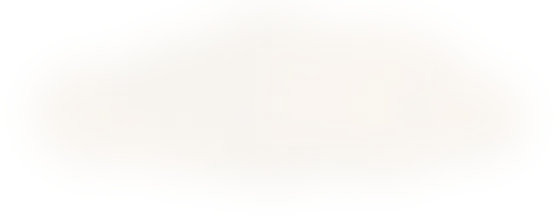
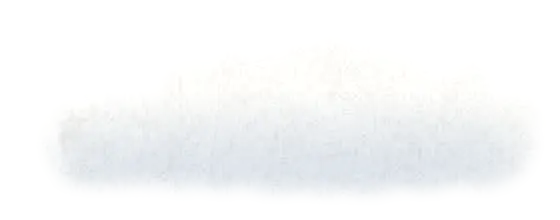
Home sky v2: clearly a painted daytime sky
- Soft blue gradient (deeper at top) lightening into the Zagros haze; the last rows are still
  the painting's own top band mirrored, so the seam stays pixel-identical.
- White painted clouds (lit tops, cool-grey shaded bases, Zagros brush grain) baked into the
  backdrop plus lighter drifting sprites; warm sun glow upper-left.
- Drift is now noticeable but gentle (+-9vw over ~50-75s); still off with reduced motion.
- Soft white halo behind the logo + line for legibility on blue.

Changed region(s): [[0.1214, 0.6273, 0.8804, 0.8455], [0.4857, 0.6, 0.5161, 0.6273]]

diff --git a/site/assets/css/home.css b/site/assets/css/home.css
@@ -243,7 +243,7 @@ body.home .zh-exit {
   height: var(--zh-h);
   overflow: hidden;
   container-type: inline-size;
-  background: #ece4da;
+  background: #9cc0dc;
   isolation: isolate;
 }
 @supports (height: 100lvh) { .home-sky { --zh-h: 100lvh; } }
@@ -283,17 +283,17 @@ body.home .zh-exit {
 }
 .home-sky-cloud {
   position: absolute; display: block; max-width: none; height: auto;
-  opacity: .85;
-  animation: home-sky-drift 90s ease-in-out infinite alternate;
+  opacity: .95;
+  animation: home-sky-drift 60s ease-in-out infinite alternate;
   will-change: transform;
 }
-.home-sky-cloud--1 { width: clamp(300px, 38vw, 720px); top: 6%;  right: -6%; animation-duration: 110s; }
-.home-sky-cloud--2 { width: clamp(220px, 26vw, 520px); top: 30%; left: -4%;  animation-duration: 85s; animation-delay: -30s; opacity: .7; }
-.home-sky-cloud--3 { width: clamp(240px, 28vw, 560px); top: 52%; right: 18%; animation-duration: 130s; animation-delay: -60s; opacity: .55; }
-.home-sky-cloud--4 { width: clamp(160px, 18vw, 360px); top: 2%;  left: 22%; animation-duration: 100s; animation-delay: -15s; opacity: .6; }
+.home-sky-cloud--1 { width: clamp(300px, 34vw, 640px); top: 4%;  right: 2%;  animation-duration: 64s; }
+.home-sky-cloud--2 { width: clamp(220px, 24vw, 480px); top: 24%; left: 4%;  animation-duration: 52s; animation-delay: -20s; animation-direction: alternate-reverse; }
+.home-sky-cloud--3 { width: clamp(220px, 22vw, 440px); top: 46%; right: 30%; animation-duration: 76s; animation-delay: -40s; opacity: .85; }
+.home-sky-cloud--4 { width: clamp(160px, 16vw, 320px); top: 0;   left: 34%; animation-duration: 58s; animation-delay: -10s; animation-direction: alternate-reverse; opacity: .9; }
 @keyframes home-sky-drift {
-  from { transform: translate3d(-4vw, 0, 0); }
-  to   { transform: translate3d(4vw, 0, 0); }
+  from { transform: translate3d(-9vw, 0, 0); }
+  to   { transform: translate3d(9vw, 0, 0); }
 }
 
 .home-sky-copy {
@@ -303,12 +303,18 @@ body.home .zh-exit {
   transform: translate3d(0, calc(-50% + var(--sky-p) * 22vh), 0);
   opacity: calc(1 - var(--sky-p) * 1.2);
 }
+.home-sky-copy::before {
+  content: ""; position: absolute; z-index: -1; left: 50%; top: 50%;
+  width: min(680px, 110vw); height: 300px; transform: translate(-50%, -50%);
+  background: radial-gradient(closest-side, rgba(255,255,255,.72), rgba(255,255,255,.38) 55%, rgba(255,255,255,0));
+  pointer-events: none;
+}
 .home-sky-logo { width: clamp(150px, 20vw, 250px); height: auto; display: block; }
 .home-sky-line {
   margin: 0; font-family: "Kalameh", Tahoma, sans-serif;
   font-weight: 700; font-size: clamp(1.1rem, 2.2vw, 1.55rem); line-height: 1.7;
   color: #066163; text-align: center;
-  text-shadow: 0 1px 14px rgba(250,247,241,.9);
+  text-shadow: 0 0 18px rgba(255,255,255,.95), 0 0 4px rgba(255,255,255,.8);
 }
 
 .home-sky-hint {

diff --git a/tools/redesign/make_sky.py b/tools/redesign/make_sky.py
@@ -31,78 +31,119 @@ def vmask(h, a, b, invert=False):
     return m
 
 
-def sky():
-    src = Image.open(SRC).convert('RGB')
-    band = src.crop((0, 0, W, 260))                    # clouds above the mountain peak (~row 320)
-
-    def grown(img, k, x_shift=0):
-        """Enlarge a cloud band (nearer clouds higher up), keep the brush grain crisp."""
-        w2 = int(W * k)
-        big = img.resize((w2, int(img.height * k)), Image.LANCZOS)
-        big = big.filter(ImageFilter.UnsharpMask(radius=2, percent=60, threshold=1))
-        x0 = (w2 - W) // 2 + x_shift
-        return big.crop((x0, 0, x0 + W, big.height))
-
-    # bottom -> top; each band cross-fades into the one below it
-    layers = [
-        (ImageOps.flip(band), H - 260),                               # A: row 1079 == painting row 0
-        (grown(ImageOps.mirror(band), 1.15, 90), H - 260 - 230),     # B
-        (grown(ImageOps.flip(ImageOps.mirror(band)), 1.3, -160), 330),  # C
-        (grown(band, 1.6, 120), 0),                                   # D
-    ]
-    out = Image.new('RGB', (W, H))
-    # paint top-down so lower bands overlap (and win over) the ones above
-    for img, y in reversed(layers):
-        lay = out.copy()
-        lay.paste(img, (0, y))
-        out = Image.composite(lay, out, vmask(H, y, y + 70).resize((W, H))) if y else lay
-
-    # daylight lift toward the top (keeps the bottom 300 rows untouched)
-    light = Image.new('RGB', (W, H), (244, 246, 242))
-    top = vmask(H, 0, H - 300, invert=True).point(lambda v: int(v * 0.30)).resize((W, H))
-    out = Image.composite(light, out, top)
-    # soft warm sun-glow behind the logo area
-    glow = Image.new('L', (W, H), 0)
-    g = Image.new('L', (900, 520), 0)
-    gp = g.load()
-    for y in range(520):
-        for x in range(900):
-            d = ((x - 450) / 450.0) ** 2 + ((y - 260) / 260.0) ** 2
-            gp[x, y] = int(max(0.0, 1 - d) ** 2 * 120)
-    glow.paste(g, (W // 2 - 450, 150))
-    out = Image.composite(Image.new('RGB', (W, H), (252, 249, 242)), out, glow)
+def grain(size, seed=0, k=1.0):
+    """Brush grain of the Zagros painting: high-pass of its cloud band, tiled to size (L, 128 = flat)."""
+    src = Image.open(SRC).convert('L').crop((0, 0, W, 300))
+    hp = ImageChops.subtract(src, src.filter(ImageFilter.GaussianBlur(10)), 1, 128)
+    rnd = random.Random(seed)
+    out = Image.new('L', size, 128)
+    for y in range(0, size[1], 260):
+        x0 = rnd.randint(0, 600)
+        tile = hp.crop((x0, 20, x0 + min(W - x0, size[0]), 280))
+        if rnd.random() < .5: tile = ImageOps.mirror(tile)
+        out.paste(tile.resize((size[0], 260)), (0, y))
+    if k != 1.0:
+        out = out.point(lambda v: max(0, min(255, int(128 + (v - 128) * k))))
     return out
 
 
+def add_grain(img, g, amount):
+    """img + amount * (grain - 128), per channel."""
+    off = g.point(lambda v: max(0, min(255, int(128 + (v - 128) * amount))))
+    return Image.merge('RGB', [ImageChops.add(c, off, 1.0, -128) for c in img.split()])
+
+
+def vgrad(stops, h, w=W):
+    """Vertical colour gradient from [(row, (r,g,b)), ...]."""
+    col = Image.new('RGB', (1, h))
+    px = col.load()
+    for y in range(h):
+        for i in range(len(stops) - 1):
+            (y0, c0), (y1, c1) = stops[i], stops[i + 1]
+            if y0 <= y <= y1:
+                t = (y - y0) / float(max(1, y1 - y0)); t = t * t * (3 - 2 * t)
+                px[0, y] = tuple(int(round(c0[j] + (c1[j] - c0[j]) * t)) for j in range(3))
+                break
+    return col.resize((w, h))
+
+
+def sky():
+    src = Image.open(SRC).convert('RGB')
+    band = src.crop((0, 0, W, 260))                    # clouds above the mountain peak (~row 320)
+    # haze band: the painting's own top clouds mirrored, so row 1079 == painting row 0 (seamless)
+    haze = Image.new('RGB', (W, H))
+    haze.paste(ImageOps.mirror(band).resize((W, 420)), (0, H - 590))
+    lay = haze.copy(); lay.paste(ImageOps.flip(band), (0, H - 260))
+    haze = Image.composite(lay, haze, vmask(H, H - 260, H - 180).resize((W, H)))
+
+    # daytime blue: deeper soft blue at the top, lightening into the painting's warm haze
+    blue = vgrad([(0, (112, 160, 202)), (300, (146, 186, 218)), (600, (190, 212, 228)),
+                  (820, (222, 222, 218)), (H - 1, (232, 224, 216))], H)
+    blue = add_grain(blue, grain((W, H), 3), 0.55)
+
+    # soft sun glow, upper left (light falls from the left in the Zagros painting)
+    glow = Image.new('L', (W, H), 0)
+    g = Image.new('L', (900, 760), 0)
+    gp = g.load()
+    for y in range(0, 760):
+        for x in range(0, 900):
+            d = ((x - 450) / 450.0) ** 2 + ((y - 380) / 380.0) ** 2
+            gp[x, y] = int(max(0.0, 1 - d) ** 2.4 * 225)
+    glow.paste(g, (40, -300))
+    blue = Image.composite(Image.new('RGB', (W, H), (255, 252, 238)), blue, glow)
+
+    # big painted clouds baked into the backdrop (the CSS layer adds smaller drifting ones)
+    for seed, (w, h), (x, y) in [(41, (1100, 380), (980, 80)), (52, (900, 320), (-160, 330)),
+                                 (63, (760, 260), (700, 520)), (74, (620, 220), (1500, 420))]:
+        c = cloud(seed, (w, h))
+        blue.paste(c, (x, y), c)
+
+    # hand off to the painting's haze over the lower third; last 120 rows are 100% painting
+    return Image.composite(haze, blue, vmask(H, H - 560, H - 60).resize((W, H)))
+
+
 def cloud(seed, size):
-    """A soft painted cloud sprite: texture from the painting, alpha from a lumpy blob."""
+    """A white painted cloud: lumpy lit top, cool-grey shaded base, Zagros brush grain, broken edges."""
+    from PIL import ImageDraw
     rnd = random.Random(seed)
     w, h = size
-    src = Image.open(SRC).convert('RGB')
-    x0 = rnd.randint(200, 1000)
-    tex = src.crop((x0, 10, x0 + 700, 210)).resize((w, h), Image.LANCZOS)
-    tex = Image.blend(tex, Image.new('RGB', (w, h), (253, 251, 246)), 0.55)
-    # painted underside: a faint warm-grey shade toward the base, lit top
-    shade = Image.new('RGB', (w, h), (214, 204, 192))
-    tex = Image.composite(shade, tex, vmask(h, int(h * 0.45), h).point(lambda v: v * 45 // 255).resize((w, h)))
-    alpha = Image.new('L', (w, h), 0)
     blobs = Image.new('L', (w, h), 0)
-    from PIL import ImageDraw
     d = ImageDraw.Draw(blobs)
+    base = h * 0.80
+    peak = rnd.uniform(0.38, 0.62)
     n = 9
+    tops = []
     for i in range(n):
-        cx = int(w * (0.18 + 0.64 * i / (n - 1)) + rnd.randint(-20, 20))
-        r = int(h * (0.20 + 0.22 * (1 - abs(i - (n - 1) / 2) / ((n - 1) / 2))) * rnd.uniform(0.85, 1.15))
-        cy = int(h * 0.62 - r * 0.45)
-        d.ellipse((cx - r * 1.3, cy - r, cx + r * 1.3, cy + r), fill=255)
-    d.rectangle((int(w * 0.16), int(h * 0.55), int(w * 0.84), int(h * 0.72)), fill=255)
-    blobs = blobs.filter(ImageFilter.GaussianBlur(h * 0.09))
-    # brushy edge: modulate by the painting's own luminance texture
-    lum = ImageOps.autocontrast(tex.convert('L'), cutoff=2).filter(ImageFilter.GaussianBlur(2))
-    alpha = ImageChops.multiply(blobs, lum.point(lambda v: 170 + v * 85 // 255))
-    alpha = alpha.point(lambda v: min(255, int(v * 0.8)))
-    tex.putalpha(alpha)
-    return tex
+        f = i / (n - 1)
+        cx = w * (0.15 + 0.70 * f) + rnd.uniform(-0.025, 0.025) * w
+        hump = max(0.2, 1 - abs(f - peak) * 1.7)
+        r = h * (0.13 + 0.22 * hump) * rnd.uniform(0.88, 1.12)
+        cy = base - r * 0.75
+        d.ellipse((cx - r * 1.2, cy - r, cx + r * 1.2, cy + r), fill=255)
+        tops.append((cx, cy - r * 0.8, r))
+    for cx, ty, r in tops:                      # cauliflower bumps along the top edge
+        for _ in range(2):
+            rr = r * rnd.uniform(0.35, 0.55)
+            x = cx + rnd.uniform(-0.8, 0.8) * r
+            y = max(rr + 4, ty + rnd.uniform(0, 0.4) * r)
+            d.ellipse((x - rr, y - rr, x + rr, y + rr), fill=255)
+    d.rounded_rectangle((int(w * 0.10), int(base - h * 0.12), int(w * 0.90), int(base + h * 0.04)), radius=int(h * 0.08), fill=255)
+    alpha = blobs.filter(ImageFilter.GaussianBlur(h * 0.03))
+    inner = blobs.filter(ImageFilter.GaussianBlur(h * 0.12))
+    shade = Image.new('L', (w, h))
+    sp = shade.load(); ip = inner.load()
+    for y in range(h):
+        t = min(1.0, max(0.0, (y - h * 0.40) / (h * 0.42)))
+        for x in range(w):
+            sp[x, y] = int(255 * t * 0.9 * (ip[x, y] / 255.0))
+    lit = Image.new('RGB', (w, h), (255, 254, 249))
+    under = Image.new('RGB', (w, h), (196, 207, 222))
+    rgb = Image.composite(under, lit, shade)
+    rgb = add_grain(rgb, grain((w, h), seed, 1.6), 2.2)
+    edge = grain((w, h), seed + 1, 2.6).filter(ImageFilter.GaussianBlur(1.2))
+    alpha = ImageChops.multiply(alpha, edge.point(lambda v: max(0, min(255, 225 + (v - 128) * 3))))
+    rgb.putalpha(alpha)
+    return rgb
 
 
 if __name__ == '__main__':
